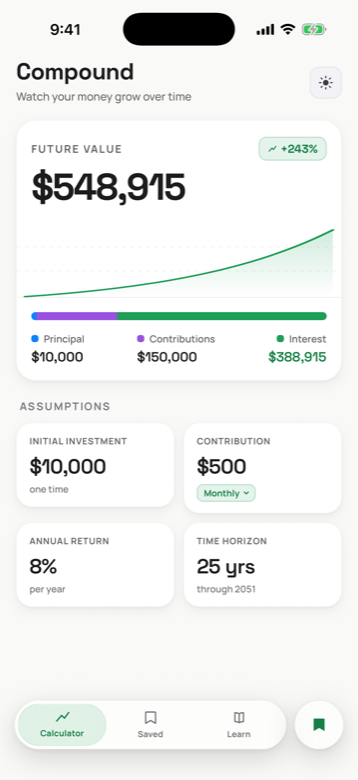
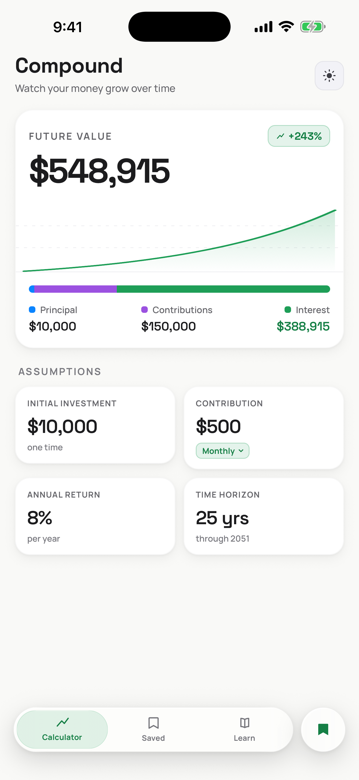
Drop the change badge, tween the chart, add missing haptics
The red/green delta badge on the balance card is gone. It showed the swing
since the keypad opened, but unlabelled it read as an unexplained negative
number rather than a hint.

The growth chart now interpolates between shapes instead of snapping. The
series is sampled at a fixed resolution so successive runs line up
index-for-index, and the curve is tweened point-by-point on the UI thread
with Reanimated, easing out over 520ms. The one-off draw-in still runs on
mount. Verified on device: across consecutive frames the curve moves
121, 120, 99, 88, 54 pixels, decelerating into place.

Haptics: the Learn tab's "Try it in the calculator" button had none, and
neither did Share, Edit, or Delete on a saved record. The Learn button
gets a medium impact since it changes screen; the rest get the same
selection tick used elsewhere.

Screenshots recaptured on an iPhone 17 Pro Max simulator. docs/app-store
holds the 1320x2868 originals for the listing; docs/screenshots holds the
scaled README copies.

Claude-Session: https://claude.ai/code/session_014y1YUwcV42NCswpojyd4xo

diff --git a/app/(tabs)/index.tsx b/app/(tabs)/index.tsx
@@ -13,7 +13,7 @@ import { GradientText } from '@/components/ui/gradient-text';
 import { GrowthChart } from '@/components/ui/growth-chart';
 import { Icon } from '@/components/ui/icon';
 import { formatFieldValue, Keypad } from '@/components/ui/keypad';
-import { FadeUp, Pop } from '@/components/ui/motion';
+import { FadeUp } from '@/components/ui/motion';
 import { Screen } from '@/components/ui/screen';
 import { SegmentBar } from '@/components/ui/segment-bar';
 import { Sheet } from '@/components/ui/sheet';
@@ -25,11 +25,13 @@ import { useCountTo } from '@/hooks/use-count-to';
 import { useSaveAction } from '@/hooks/use-save-action';
 import { useTheme } from '@/hooks/use-theme';
 import { commitEntry, nextEntry } from '@/utils/entry';
-import { balanceAt, breakdown, chartSeries, money, smoothPath } from '@/utils/finance';
+import { balanceAt, breakdown, chartSeries, money } from '@/utils/finance';
 
 type Values = Record<FieldKey, number>;
 
 const DEFAULTS: Values = { initial: 10000, monthly: 500, rate: 8, years: 25 };
+/** Fixed chart resolution, so every series can tween into the next. */
+const CHART_SAMPLES = 28;
 
 const haptic = () => {
   if (Platform.OS === 'ios') Haptics.selectionAsync();
@@ -48,7 +50,6 @@ export default function CalculatorScreen() {
   const [focus, setFocus] = useState<FieldKey | null>(null);
   const [entry, setEntry] = useState('');
   const [fresh, setFresh] = useState(true);
-  const [baseBalance, setBaseBalance] = useState(0);
   const [bump, setBump] = useState(0);
 
   const [freqOpen, setFreqOpen] = useState(false);
@@ -62,10 +63,12 @@ export default function CalculatorScreen() {
   );
   const b = useMemo(() => breakdown(inputs, values.years), [inputs, values.years]);
 
-  const { line, area } = useMemo(() => {
-    const l = smoothPath(chartSeries(inputs, values.years));
-    return { line: l, area: `${l} L 312 150 L 8 150 Z` };
-  }, [inputs, values.years]);
+  // A constant sample count keeps successive series index-aligned so the chart
+  // can tween between shapes rather than snapping.
+  const chartPoints = useMemo(
+    () => chartSeries(inputs, values.years, CHART_SAMPLES),
+    [inputs, values.years],
+  );
 
   const { value: display, animateTo, set: setDisplay, stop: stopCount } = useCountTo();
 
@@ -110,10 +113,10 @@ export default function CalculatorScreen() {
   // ---- keypad -------------------------------------------------------------
 
   const openFocus = (key: FieldKey) => {
+    // Pin the readout to the current balance so the count-up does not keep
+    // running underneath the keypad.
     stopCount();
-    const base = Math.round(balanceRef.current);
-    setDisplay(base);
-    setBaseBalance(base);
+    setDisplay(Math.round(balanceRef.current));
     setFocus(key);
     setEntry(String(live.current.values[key]));
     setFresh(true);
@@ -235,9 +238,6 @@ export default function CalculatorScreen() {
 
   const focused = focus !== null;
   const growthText = `${b.growthPct >= 0 ? '+' : ''}${b.growthPct.toFixed(0)}%`;
-  const delta = focused ? b.balance - baseBalance : 0;
-  const hasDelta = focused && Math.abs(delta) >= 1;
-  const deltaUp = delta > 0;
   const horizonYear = new Date().getFullYear() + Math.round(values.years);
 
   const tileHint = (field: Field) => (field.key === 'years' ? `through ${horizonYear}` : field.hint);
@@ -273,35 +273,16 @@ export default function CalculatorScreen() {
         <GlassCard style={s.resultCard}>
           <View style={s.rowBetween}>
             <Text style={s.futureLabel}>Future Value</Text>
-            <View style={{ flexDirection: 'row', alignItems: 'center', gap: 6 }}>
-              {hasDelta ? (
-                <Pop key={deltaUp ? 'up' : 'down'}>
-                  <View
-                    style={[
-                      s.badge,
-                      {
-                        backgroundColor: deltaUp ? theme.accentSoft : theme.dangerBg,
-                        borderColor: deltaUp ? theme.accentBorder : theme.dangerBorder,
-                      },
-                    ]}
-                  >
-                    <Text style={[s.deltaText, { color: deltaUp ? theme.accent : theme.danger }]}>
-                      {`${deltaUp ? '+' : '-'}${money(Math.abs(delta))}`}
-                    </Text>
-                  </View>
-                </Pop>
-              ) : null}
-              <View style={[s.badge, s.growthBadge]}>
-                <Icon name="trending" size={11} color={theme.accent} strokeWidth={2.6} />
-                <Text style={s.growthText}>{growthText}</Text>
-              </View>
+            <View style={[s.badge, s.growthBadge]}>
+              <Icon name="trending" size={11} color={theme.accent} strokeWidth={2.6} />
+              <Text style={s.growthText}>{growthText}</Text>
             </View>
           </View>
 
           <GradientText text={money(display)} colors={theme.balanceGrad} style={s.balance} numberOfLines={1} />
 
           <View style={s.chartWrap}>
-            <GrowthChart line={line} area={area} height={84} />
+            <GrowthChart points={chartPoints} height={84} />
           </View>
 
           <Collapsible expanded={!focused} rise={-12}>
@@ -586,7 +567,6 @@ const makeStyles = (theme: Theme) =>
     },
     growthBadge: { backgroundColor: theme.accentSoft, borderColor: theme.accentBorder },
     growthText: { fontFamily: Font.displayBold, fontSize: 13, color: theme.accent },
-    deltaText: { fontFamily: Font.displayBold, fontSize: 12.5 },
     balance: { fontFamily: Font.displayBold, fontSize: 42, lineHeight: 51, letterSpacing: -1.5, marginTop: 5 },
     chartWrap: { marginTop: 14, marginHorizontal: -16 },
     legendRow: { flexDirection: 'row', justifyContent: 'space-between', marginTop: 13 },

diff --git a/components/ui/growth-chart.tsx b/components/ui/growth-chart.tsx
@@ -1,5 +1,11 @@
-import React, { useEffect, useRef } from 'react';
-import { Animated, Easing } from 'react-native';
+import React, { useEffect } from 'react';
+import Animated, {
+  Easing,
+  useAnimatedProps,
+  useSharedValue,
+  withDelay,
+  withTiming,
+} from 'react-native-reanimated';
 import Svg, { Defs, LinearGradient, Line, Path, Stop } from 'react-native-svg';
 
 import { withAlpha } from '@/constants/tokens';
@@ -7,44 +13,87 @@ import { useTheme } from '@/hooks/use-theme';
 
 const AnimatedPath = Animated.createAnimatedComponent(Path);
 
-// Comfortably longer than any path this 320x150 viewBox can produce, so the
-// line starts fully hidden and then "draws" itself in.
+/** Comfortably longer than any path this 320x150 viewBox can produce. */
 const DASH = 900;
+/** How long the curve takes to settle into a new shape. */
+const MORPH_MS = 520;
+
+export type ChartPoint = [number, number];
+
+/** Straight lerp between two equal-length series; falls back to the target. */
+function tween(from: ChartPoint[], to: ChartPoint[], t: number): ChartPoint[] {
+  'worklet';
+  if (from.length !== to.length) return to;
+  const out: ChartPoint[] = [];
+  for (let i = 0; i < to.length; i++) {
+    out.push([from[i][0] + (to[i][0] - from[i][0]) * t, from[i][1] + (to[i][1] - from[i][1]) * t]);
+  }
+  return out;
+}
+
+/** Catmull-Rom -> cubic Bézier, matching utils/finance's smoothPath. */
+function buildLine(p: ChartPoint[]): string {
+  'worklet';
+  if (!p.length) return '';
+  let d = `M ${p[0][0]} ${p[0][1]}`;
+  for (let i = 0; i < p.length - 1; i++) {
+    const p0 = p[i - 1] || p[i];
+    const p1 = p[i];
+    const p2 = p[i + 1];
+    const p3 = p[i + 2] || p[i + 1];
+    const c1x = p1[0] + (p2[0] - p0[0]) / 6;
+    const c1y = p1[1] + (p2[1] - p0[1]) / 6;
+    const c2x = p2[0] - (p3[0] - p1[0]) / 6;
+    const c2y = p2[1] - (p3[1] - p1[1]) / 6;
+    d += ` C ${c1x.toFixed(1)} ${c1y.toFixed(1)} ${c2x.toFixed(1)} ${c2y.toFixed(1)} ${p2[0]} ${p2[1]}`;
+  }
+  return d;
+}
 
 /**
  * Projected-growth line chart with area fill and gridlines. The viewBox is
  * 320x150 squashed into `height`, matching the design's
- * `preserveAspectRatio="none"`. The draw-in runs once per mount (`cc-drawline`
- * / `cc-rise`).
+ * `preserveAspectRatio="none"`.
+ *
+ * The curve is tweened point-by-point on the UI thread whenever the
+ * assumptions change, so editing a value glides the line to its new shape
+ * instead of snapping. The one-off draw-in still runs on mount.
  */
-export function GrowthChart({ line, area, height = 84 }: { line: string; area: string; height?: number }) {
+export function GrowthChart({ points, height = 84 }: { points: ChartPoint[]; height?: number }) {
   const { theme } = useTheme();
   const stroke = theme.chartStroke;
   const strokeIsGradient = stroke.length > 1;
 
-  const draw = useRef(new Animated.Value(DASH)).current;
-  const rise = useRef(new Animated.Value(0)).current;
+  const from = useSharedValue<ChartPoint[]>(points);
+  const to = useSharedValue<ChartPoint[]>(points);
+  const progress = useSharedValue(1);
+  const dash = useSharedValue(DASH);
+  const rise = useSharedValue(0);
 
+  // One-off draw-in (`cc-drawline` / `cc-rise`).
   useEffect(() => {
-    const anim = Animated.parallel([
-      Animated.timing(draw, {
-        toValue: 0,
-        duration: 1400,
-        delay: 200,
-        easing: Easing.bezier(0.4, 0, 0.2, 1),
-        useNativeDriver: false,
-      }),
-      Animated.timing(rise, {
-        toValue: 1,
-        duration: 1000,
-        delay: 400,
-        easing: Easing.out(Easing.ease),
-        useNativeDriver: false,
-      }),
-    ]);
-    anim.start();
-    return () => anim.stop();
-  }, [draw, rise]);
+    dash.value = withDelay(200, withTiming(0, { duration: 1400, easing: Easing.bezier(0.4, 0, 0.2, 1) }));
+    rise.value = withDelay(400, withTiming(1, { duration: 1000, easing: Easing.out(Easing.ease) }));
+  }, [dash, rise]);
+
+  // Re-target whenever the series changes, starting from wherever the curve
+  // currently sits so rapid edits chain smoothly instead of jumping back.
+  useEffect(() => {
+    from.value = tween(from.value, to.value, progress.value);
+    to.value = points;
+    progress.value = 0;
+    progress.value = withTiming(1, { duration: MORPH_MS, easing: Easing.out(Easing.cubic) });
+  }, [points, from, to, progress]);
+
+  const lineProps = useAnimatedProps(() => ({
+    d: buildLine(tween(from.value, to.value, progress.value)),
+    strokeDashoffset: dash.value,
+  }));
+
+  const areaProps = useAnimatedProps(() => ({
+    d: `${buildLine(tween(from.value, to.value, progress.value))} L 312 150 L 8 150 Z`,
+    opacity: rise.value,
+  }));
 
   return (
     <Svg width="100%" height={height} viewBox="0 0 320 150" preserveAspectRatio="none">
@@ -62,16 +111,15 @@ export function GrowthChart({ line, area, height = 84 }: { line: string; area: s
       <Line x1="0" y1="149" x2="320" y2="149" stroke={theme.track} strokeWidth={1} />
       <Line x1="0" y1="96" x2="320" y2="96" stroke={theme.track} strokeWidth={1} strokeDasharray="3 5" />
       <Line x1="0" y1="48" x2="320" y2="48" stroke={theme.track} strokeWidth={1} strokeDasharray="3 5" />
-      <AnimatedPath d={area} fill="url(#chartArea)" opacity={rise} />
+      <AnimatedPath animatedProps={areaProps} fill="url(#chartArea)" />
       <AnimatedPath
-        d={line}
+        animatedProps={lineProps}
         fill="none"
         stroke={strokeIsGradient ? 'url(#chartLine)' : stroke[0]}
         strokeWidth={3.2}
         strokeLinecap="round"
         strokeLinejoin="round"
         strokeDasharray={DASH}
-        strokeDashoffset={draw}
       />
     </Svg>
   );

diff --git a/app/(tabs)/learn.tsx b/app/(tabs)/learn.tsx
@@ -1,6 +1,7 @@
+import * as Haptics from 'expo-haptics';
 import { useRouter } from 'expo-router';
 import React, { useMemo } from 'react';
-import { StyleSheet, Text, View } from 'react-native';
+import { Platform, StyleSheet, Text, View } from 'react-native';
 
 import { GlassCard } from '@/components/ui/glass-card';
 import { GradientButton } from '@/components/ui/gradient-button';
@@ -149,7 +150,16 @@ export default function LearnScreen() {
       </View>
 
       <View style={{ marginTop: 20 }}>
-        <GradientButton onPress={() => router.navigate('/')} contentStyle={{ paddingVertical: 17 }} shadow>
+        <GradientButton
+          onPress={() => {
+            // A firmer tap than the selection ticks elsewhere, since this one
+            // moves you to another screen.
+            if (Platform.OS === 'ios') Haptics.impactAsync(Haptics.ImpactFeedbackStyle.Medium);
+            router.navigate('/');
+          }}
+          contentStyle={{ paddingVertical: 17 }}
+          shadow
+        >
           <Text style={[s.primaryBtnText, { color: theme.btnFg }]}>Try it in the calculator</Text>
         </GradientButton>
       </View>

diff --git a/utils/finance.ts b/utils/finance.ts
@@ -54,9 +54,15 @@ export const breakdown = (inputs: FinanceInputs, years: number): Breakdown => {
   return { balance, contributionsTotal, interest, growthPct, principalRatio, contribRatio, interestRatio };
 };
 
-/** Chart sample points in a 320x150 viewBox (y inverted for SVG). */
-export const chartSeries = (inputs: FinanceInputs, years: number): [number, number][] => {
-  const count = Math.min(28, Math.max(2, years + 1));
+/**
+ * Chart sample points in a 320x150 viewBox (y inverted for SVG).
+ *
+ * `samples` fixes the point count. The chart passes a constant so successive
+ * series always line up index-for-index and can be tweened between; leaving it
+ * off keeps the year-aligned sampling.
+ */
+export const chartSeries = (inputs: FinanceInputs, years: number, samples?: number): [number, number][] => {
+  const count = samples ?? Math.min(28, Math.max(2, years + 1));
   const max = Math.max(balanceAt(inputs, years), 1);
   const points: [number, number][] = [];
   for (let i = 0; i < count; i++) {

diff --git a/app/(tabs)/explore.tsx b/app/(tabs)/explore.tsx
@@ -306,7 +306,10 @@ function ActionButton({
   const color = danger ? theme.danger : theme.mutedCol;
   return (
     <TouchableOpacity
-      onPress={onPress}
+      onPress={() => {
+        if (Platform.OS === 'ios') Haptics.selectionAsync();
+        onPress();
+      }}
       activeOpacity={0.8}
       accessibilityRole="button"
       accessibilityLabel={label}

diff --git a/README.md b/README.md
@@ -61,6 +61,7 @@ constants/        # Design tokens and themes
 hooks/            # Custom hooks
 utils/            # Finance math and formatting
 docs/screenshots/ # README images
+docs/app-store/   # 1320x2868 listing images for App Store Connect
 ```
 
 ## License
